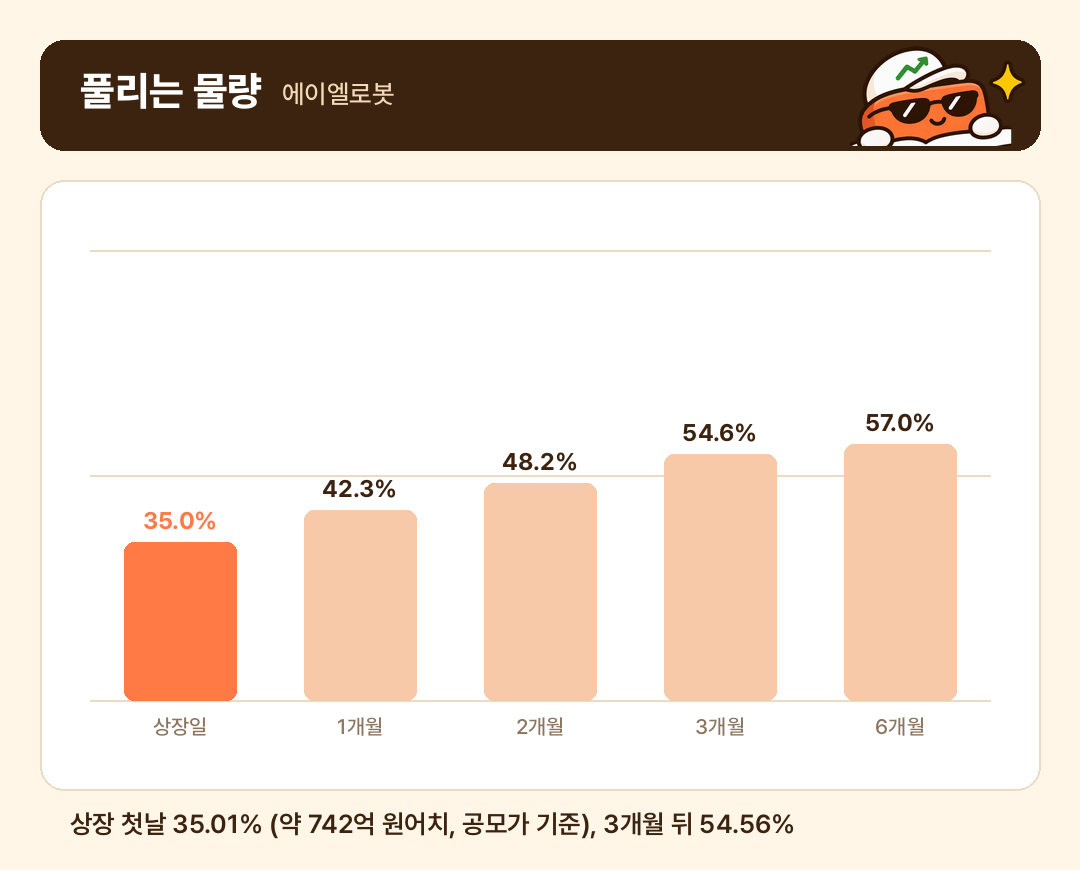
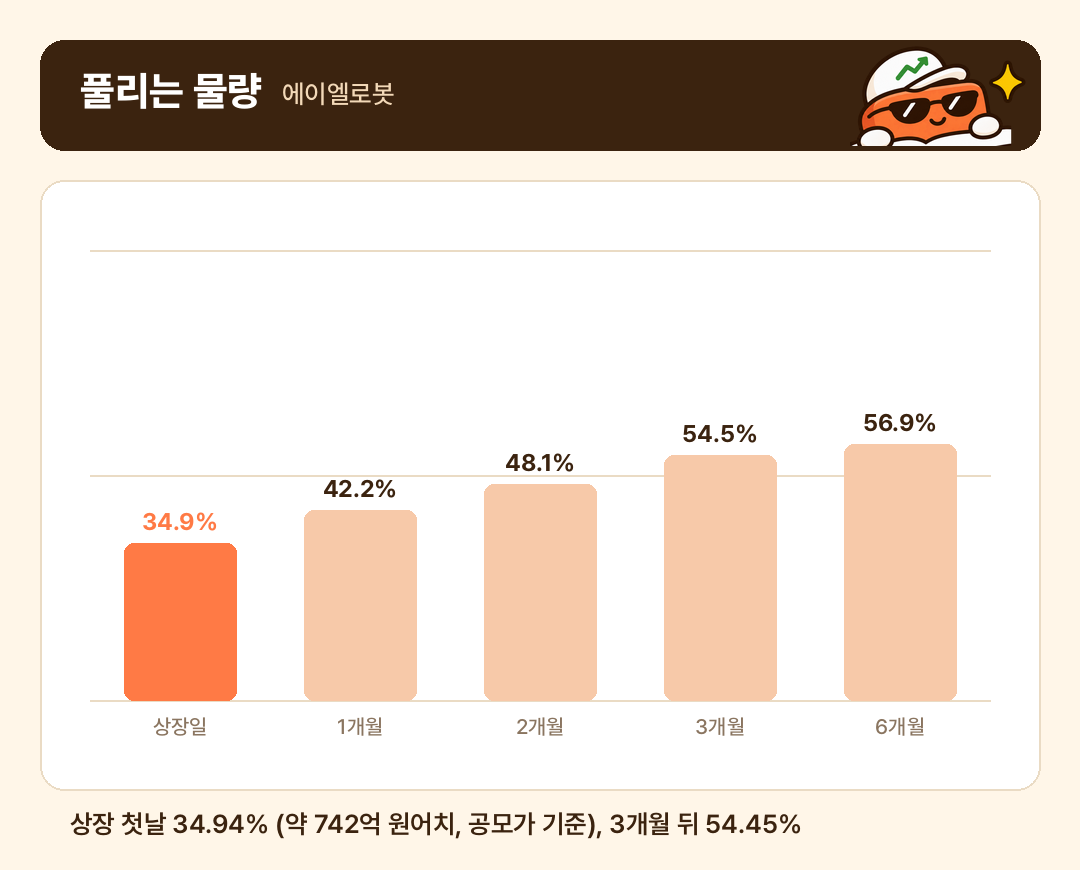
Update AL Robot float for final share count
Add the underwriter's extra 24,000 shares to the listed share count and
record how to check figures against the final filing.

diff --git a/docs/POST_TEMPLATE.md b/docs/POST_TEMPLATE.md
@@ -28,12 +28,26 @@
 15. (원고 전용, 발행본에서 제거) 🔍 검수 메모: 확인할 것 체크리스트 + 수치별 출처 링크 + 계산식
 
 ## 2026-11-05 지운 피드백 (위 순서보다 우선)
+- 제목: 위 고정 틀(판정형, 체크리스트형 등)을 돌려 쓰면 다른 블로그와 겹친다. 회사 분석 내용을 제목에 넣으면 재미가 없다. 내 선택, 내 돈, 독자 상황처럼 사람이 끌리는 포인트로 매번 새 10안을 만든다. 예) 옵토닉스 공모주, 제가 균등 20주만 넣기로 한 이유
 - 섹션 구성: **이미지 → 짧은 글 → 표(부가 설명) → 추가 글**. 이미지에 있는 항목은 표에서 뺀다. 같은 숫자를 표 두 개에 넣지 않는다.
 - 주변 공모주 일정은 **발행 직전 정정 공시를 다시 확인**한다. 월초 정리 글은 오래된 자료다. 일정이 밀린 종목이 없는지 최근 기사 2곳 이상으로 대조한다.
 - 시황은 하루 등락이 아니라 **코스피·코스닥 5거래일·20거래일 흐름**으로 본다. 카드에는 숫자 대신 분위기를 적고, 본문에 숫자와 최근 상장주 성적을 쓴다.
 - 시황 등급은 지금 분위기만이 아니라 **상장일까지 큰 이슈가 정리될지**도 같이 본다. 하락장이어도 큰 이슈가 지나갔으면 B가 될 수 있다(영광와이케이엠씨, 지운 판단).
 - BRICK CHECK 기준을 다시 설명하는 표는 넣지 않는다.
+- 38 유통물량 표는 종목마다 열 순서가 다르다. 유통가능·매각제한을 합계 행과 머리글로 확인하고 다른 출처와 대조한다.
+- 대표·회사 발언은 공시 수치와 대조한다. 맞지 않으면 쓰지 않거나 숫자와 나란히 보여준다.
+- SEO: 제목 앞에 '종목명 공모주 청약', 첫 문단과 소제목에 검색어를 자연스럽게 넣는다. 도배는 하지 않는다.
 - 지운이 자료를 주지 않아도 이 글 수준의 깊이를 낸다. 재무제표·기간별 확약·청약한도·고객사·수주잔고·이전 상장 시도를 DART와 기사에서 직접 찾는다.
+
+## 수치 시점 확인 (2026-11-05 추가)
+공모 수치는 증권신고서 최초 → 정정 → 발행조건확정 순으로 바뀐다. 계산이 맞아도 옛 시점이면 틀린 글이다.
+- 기준은 **발행조건확정 신고서와 그 뒤 기사**다. 38 공시 목록에서 날짜를 확인하고, 원고의 수치마다 기준 시점을 적는다.
+- 공모가 확정 뒤 다시 계산할 것: 공모금액, 순조달액, 자금 용도(증액분 포함), 시가총액, 유통 비율.
+- 기관 확약이 기준에 못 미치면 상장주선인이 공모주식의 1%를 추가 취득한다. 상장예정주식수가 늘어 시가총액과 유통 비율이 바뀐다. 38 유통 표에 반영됐는지 확인한다. 예) 에이엘로봇 2만 4,000주 → 2,121억이 아니라 약 2,124억, 35.01%가 아니라 약 34.94%.
+- 검산: 시가총액 ÷ 공모가 = 상장예정주식수, 유통 주식수 ÷ 상장예정주식수 = 유통 비율. 보도와 다르면 차이 원인을 찾은 뒤 쓴다.
+- 같은 사건처럼 보이는 일정은 고객과 제품을 나눠 본다. 예) 일본 SE사 공급 시작과 SF사 2027년 양산은 다른 건이다.
+- 발행 직전에 최신 기사를 한 번 더 찾는다. 시황 표는 발행 시점의 마지막 종가로 맞춘다.
+- 멘트: "장치가 없습니다"처럼 어색한 표현 대신 "이번 공모에는 포함되지 않았습니다"로 쓴다.
 
 ## BRICK CHECK 등급 기준
 | 기준 | A | B | C |
